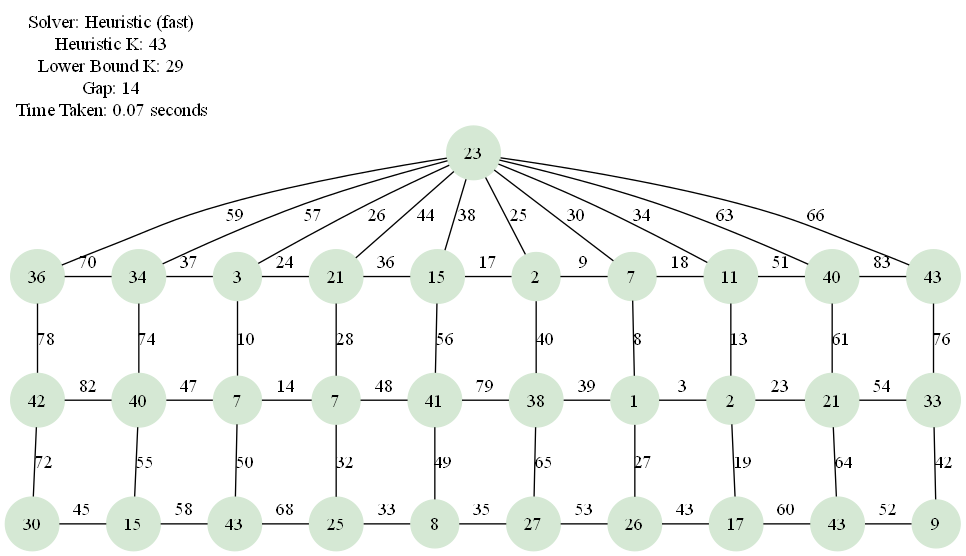
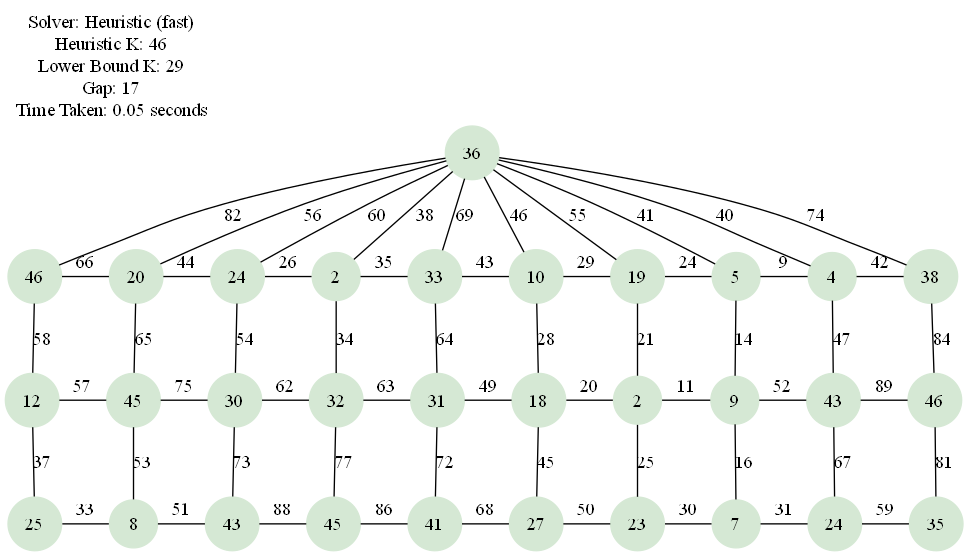
Add intelligent heuristic mode and enhance documentation
Introduces an 'intelligent' heuristic mode to the CLI, supporting degree-biased vertex ordering and conflict-minimizing label selection for improved k-labeling accuracy. Adds and updates PRDs, tasks, and enhancement documentation for the new algorithm, refines .gitignore, updates Taskmaster config to use Gemini models, and adds new/updated graph result images. Also reorganizes and renames enhancement documentation for clarity.

diff --git a/main.py b/main.py
@@ -18,7 +18,7 @@ def main():
     parser.add_argument("--solver", type=str, default=DEFAULT_SOLVER_TYPE, choices=["heuristic", "backtracking", "edge-irregular"], help=f"Solver to use: 'heuristic', 'backtracking', or 'edge-irregular' (default: {DEFAULT_SOLVER_TYPE})")
     parser.add_argument("--k-limit", type=int, default=None, help="Upper bound on k for edge-irregular solver")
     parser.add_argument("--progress", action="store_true", help="Print progress of k-limit search for edge-irregular solver")
-    parser.add_argument("--heuristic_mode", type=str, default="accurate", choices=["accurate", "fast"], help="Heuristic mode: 'accurate' uses randomized multi-attempt search (slower, better chance of optimal k), 'fast' uses a single-pass greedy (faster, possibly higher k). Ignored for backtracking solver.")
+    parser.add_argument("--heuristic_mode", type=str, default="accurate", choices=["accurate", "fast", "intelligent"], help="Heuristic mode: 'accurate' uses randomized multi-attempt search (slower, better chance of optimal k), 'fast' uses a single-pass greedy (faster, possibly higher k), 'intelligent' uses a degree-biased and conflict-minimizing approach. Ignored for backtracking solver.")
     parser.add_argument(
         "--animate",
         type=str,

diff --git a/ai-docs/enhancements/enhancement_intelligent_heuristic_accuracy.md b/ai-docs/enhancements/enhancement_intelligent_heuristic_accuracy.md
@@ -1,0 +1,59 @@
+<context>
+# Overview
+This document outlines the plan to enhance the accuracy of the "intelligent" heuristic algorithm for k-labeling, specifically targeting improvements within `src/labeling_solver.py`. The current intelligent heuristic, while an improvement over purely random approaches, can still be optimized to find lower `k` values more consistently and efficiently, especially for larger and more complex graphs. This enhancement focuses on refining the core strategies of vertex ordering, label selection, and local search to achieve superior accuracy and performance.
+
+# Core Features
+1.  **Refined Vertex Ordering (Advanced Degree-Biased Randomization)**
+    - **What:** Further refine the prioritization of vertices by incorporating not just degree, but also connectivity to already-labeled vertices and potential for creating conflicts.
+    - **Why:** A more nuanced ordering can guide the search more effectively, reducing the likelihood of early dead-ends and leading to better `k` values.
+    - **How:** Implement a dynamic scoring mechanism for unlabeled vertices that considers their degree, the number of their neighbors that are already labeled, and the number of potential conflicts they might introduce based on current partial labeling. Vertices with higher scores (indicating higher constraint or potential impact) will be prioritized.
+
+2.  **Adaptive Conflict-Directed Label Selection (Dynamic Conflict Thresholds)**
+    - **What:** Enhance the minimum conflict heuristic by dynamically adjusting the acceptable conflict threshold based on the current state of the labeling process.
+    - **Why:** Early in the search, a stricter conflict avoidance might be beneficial, while later, a more lenient approach might help escape local minima.
+    - **How:** Introduce a mechanism where the conflict score evaluation for label selection can adapt. For instance, in the initial phase, strictly choose zero-conflict labels if available. As the labeling progresses or if no zero-conflict labels are found, allow for a minimal number of conflicts, potentially using a weighted sum of conflicts.
+
+3.  **Multi-Strategy Local Search Repair Mechanism**
+    - **What:** Instead of a single local search strategy, implement a multi-pronged approach that can switch between different repair heuristics (e.g., tabu search, simulated annealing-like perturbations) if the primary local search gets stuck.
+    - **Why:** A single local search might get trapped in local minima. Multiple strategies increase the chances of escaping these and finding a globally better solution.
+    - **How:** If the initial local search (e.g., iterative minimum conflict re-labeling) fails to resolve all conflicts within a certain number of iterations, trigger an alternative repair strategy. This could involve temporarily allowing "bad" moves to escape local optima or introducing small, random perturbations to the labeling to explore new solution spaces.
+
+# User Experience
+- **CLI Interaction:** The existing `--algorithm intelligent` flag will continue to be used. The improvements will be transparent to the user, resulting in better outcomes without changes to the command-line interface.
+- **Expected Outcome:** Users will observe that the `intelligent` mode consistently finds lower `k` values and/or completes the labeling process faster for a wider range of graph sizes and complexities compared to its previous iteration. The output format and visualization will remain unchanged.
+</context>
+<PRD>
+# Technical Architecture
+- **File to Modify:** `src/labeling_solver.py` will be the primary location for the changes.
+- **New Logic:**
+    - The existing vertex ordering function will be updated to incorporate the advanced dynamic scoring mechanism.
+    - The label selection function will be modified to include adaptive conflict thresholds.
+    - The local search repair mechanism will be refactored to support multiple repair strategies and a switching mechanism.
+- **Testing:** Existing test cases in `tests/test_heuristic_solver.py` will be updated, and new test cases will be added to specifically validate the enhanced `intelligent` mode's accuracy and performance improvements. Benchmarking against previous versions and other heuristics will be crucial.
+
+# Development Roadmap
+1.  **Phase 1: Advanced Vertex Ordering & Adaptive Label Selection**
+    - Refine the dynamic scoring for vertex selection in `src/labeling_solver.py`.
+    - Implement adaptive conflict thresholds within the label selection logic.
+    - Integrate these refined strategies into the main greedy pass for the `intelligent` mode.
+
+2.  **Phase 2: Multi-Strategy Local Search & Comprehensive Testing**
+    - Develop and integrate the multi-strategy local search repair mechanism.
+    - Update and add comprehensive unit and integration tests to `tests/test_heuristic_solver.py` to cover the new logic, including edge cases, performance benchmarks, and comparisons against previous versions.
+
+# Logical Dependency Chain
+1.  Refinement of vertex ordering is foundational as it influences the initial greedy pass.
+2.  Adaptive label selection builds upon the conflict-directed approach and is integrated into the greedy pass.
+3.  The multi-strategy local search is a post-processing step that depends on the outcome of the greedy pass.
+4.  Testing should be developed in parallel with the features but can only be finalized once all implementation is complete and integrated.
+
+# Risks and Mitigations
+- **Risk 1: Over-optimization leading to diminishing returns:** Excessive complexity in heuristics might not yield proportional improvements in `k` values or performance.
+  - **Mitigation:** Implement changes incrementally and rigorously benchmark each iteration. Define clear performance and accuracy targets. If a new strategy doesn't meet targets, re-evaluate its inclusion.
+- **Risk 2: Increased computational time for advanced heuristics:** The more sophisticated scoring and multi-strategy approaches could introduce significant overhead.
+  - **Mitigation:** Profile all new components extensively. Prioritize strategies that offer the best accuracy-to-performance ratio. Explore approximations or pre-computation where feasible.
+- **Risk 3: Difficulty in tuning multiple heuristic parameters:** The introduction of dynamic thresholds and multiple repair strategies might make the algorithm harder to tune for optimal performance across different graph types.
+  - **Mitigation:** Design parameters to be robust and self-adjusting where possible. Provide clear documentation and default values. Consider automated parameter tuning if necessary for future enhancements.
+
+# Appendix
+- This PRD builds upon the initial "intelligent" heuristic design and aims to further enhance its accuracy and robustness.

diff --git a/ai-docs/refactor/refactor_heuristic_task.md b/ai-docs/refactor/refactor_heuristic_task.md
@@ -1,0 +1,40 @@
+# Goal: Refactor the Accurate Heuristic Algorithm
+
+**Objective**: To replace the current purely random heuristic algorithm with a more intelligent, guided search strategy to improve accuracy (find lower *k* values), enhance performance for larger graphs, and ensure more consistent results.
+
+---
+
+## High-Level Overview
+
+The project involves three main phases:
+1.  **Implement a Smarter Greedy Pass**: We will replace the random vertex and label selection with more informed choices. This involves creating a new `intelligent` algorithm mode that uses degree-biased vertex ordering and a conflict-minimizing strategy for choosing labels.
+2.  **Add a Local Search Repair Mechanism**: Instead of discarding nearly-valid solutions, we will implement a local search phase to iteratively repair the few remaining conflicts.
+3.  **Testing and Validation**: We will add a comprehensive suite of tests to validate the new algorithm's correctness and benchmark its performance against the old `accurate` mode.
+
+---
+
+## Detailed Steps
+
+### Phase 1: Core Logic Implementation
+
+- [x] **1.1: Create New Algorithm Mode**: In `src/labeling_solver.py`, add a new `intelligent` option to the `find_feasible_k_labeling` function signature and its internal logic to handle the new code path.
+- [x] **1.2: Implement Degree-Biased Vertex Ordering**: Create a helper function that takes the graph's vertices and returns a list of vertices ordered by degree quantiles. The selection from within each quantile should be random.
+- [x] **1.3: Implement Minimum Conflict Label Selection**: Create a helper function that, for a given vertex, calculates a conflict score for each possible label (`1...k`) and returns the label with the lowest score.
+- [x] **1.4: Integrate into a New Greedy Pass**: Assemble the new ordering and label selection logic into a single, cohesive greedy pass for the `intelligent` mode.
+
+### Phase 2: Local Search and Repair
+
+- [x] **2.1: Implement Conflict Identification**: After the initial greedy pass, create a function that identifies and returns a list of all vertices involved in edge weight conflicts.
+- [x] **2.2: Implement the Local Search Loop**: If conflicts are found, implement a loop that runs for a fixed number of iterations. In each iteration, it should pick a conflicted vertex and attempt to repair it using the minimum conflict label selection logic from step 1.3.
+- [x] **2.3: Integrate into `intelligent` mode**: The local search should be triggered only if the main greedy pass for the `intelligent` mode fails to find a perfect solution.
+
+### Phase 3: Testing and Validation
+
+- [x] **3.1: Create New Test File/Cases**: In `tests/test_heuristic_solver.py`, add new test cases specifically for the `intelligent` algorithm.
+- [x] **3.2: Test Correctness**: Add tests to verify that the `intelligent` mode produces valid k-labelings for known small graphs.
+- [x] **3.3: Test Components**: Add unit tests for the new helper functions: degree-biased ordering and minimum conflict selection.
+- [x] **3.4: Benchmark Performance**: Add a test that runs on a larger benchmark graph and asserts that the `intelligent` mode finds a `k` value that is less than or equal to the one found by the `accurate` mode in a reasonable amount of time.
+
+---
+
+*This task file will be updated as steps are completed.*

diff --git a/ai-docs/enhancements/tasks_intelligent_heuristic_accuracy_enhancement.md b/ai-docs/enhancements/tasks_intelligent_heuristic_accuracy_enhancement.md
@@ -1,0 +1,24 @@
+# Task: Complete Intelligent Heuristic Accuracy Enhancement
+
+## Development Roadmap
+
+### Phase 1: Advanced Vertex Ordering & Adaptive Label Selection
+- [x] **Task 1.1: Refine Dynamic Scoring for Vertex Selection**
+    - [x] Modify the vertex selection logic in `src/labeling_solver.py` to incorporate a dynamic scoring mechanism. This score should consider:
+        - [x] Vertex degree.
+        - [x] Number of already-labeled neighbors.
+        - [x] Potential conflicts based on current partial labeling.
+    - [x] Prioritize vertices with higher scores.
+- [x] **Task 1.2: Implement Adaptive Conflict Thresholds for Label Selection**
+    - [x] Update the label selection function in `src/labeling_solver.py` to include adaptive conflict thresholds.
+    - [x] Allow for dynamic adjustment of acceptable conflict levels based on the stage of the labeling process (e.g., stricter early on, more lenient later).
+- [ ] **Task 1.3: Integrate Refined Strategies into Greedy Pass**
+    - [ ] Integrate the updated vertex ordering and adaptive label selection into the main greedy pass for the `intelligent` mode in `src/labeling_solver.py`.
+
+### Phase 2: Multi-Strategy Local Search & Comprehensive Testing
+- [ ] **Task 2.1: Develop Multi-Strategy Local Search Repair Mechanism**
+    - [ ] Refactor the local search repair mechanism in `src/labeling_solver.py` to support multiple repair strategies (e.g., iterative minimum conflict re-labeling, tabu search, simulated annealing-like perturbations).
+    - [ ] Implement a switching mechanism to trigger alternative strategies if the primary one gets stuck.
+- [ ] **Task 2.2: Update and Add Comprehensive Tests**
+    - [ ] Update existing unit and integration tests in `tests/test_heuristic_solver.py` to cover the enhanced `intelligent` mode.
+    - [ ] Add new test cases to specifically validate the accuracy and performance improvements, including edge cases and benchmarks against previous versions and other heuristics.
